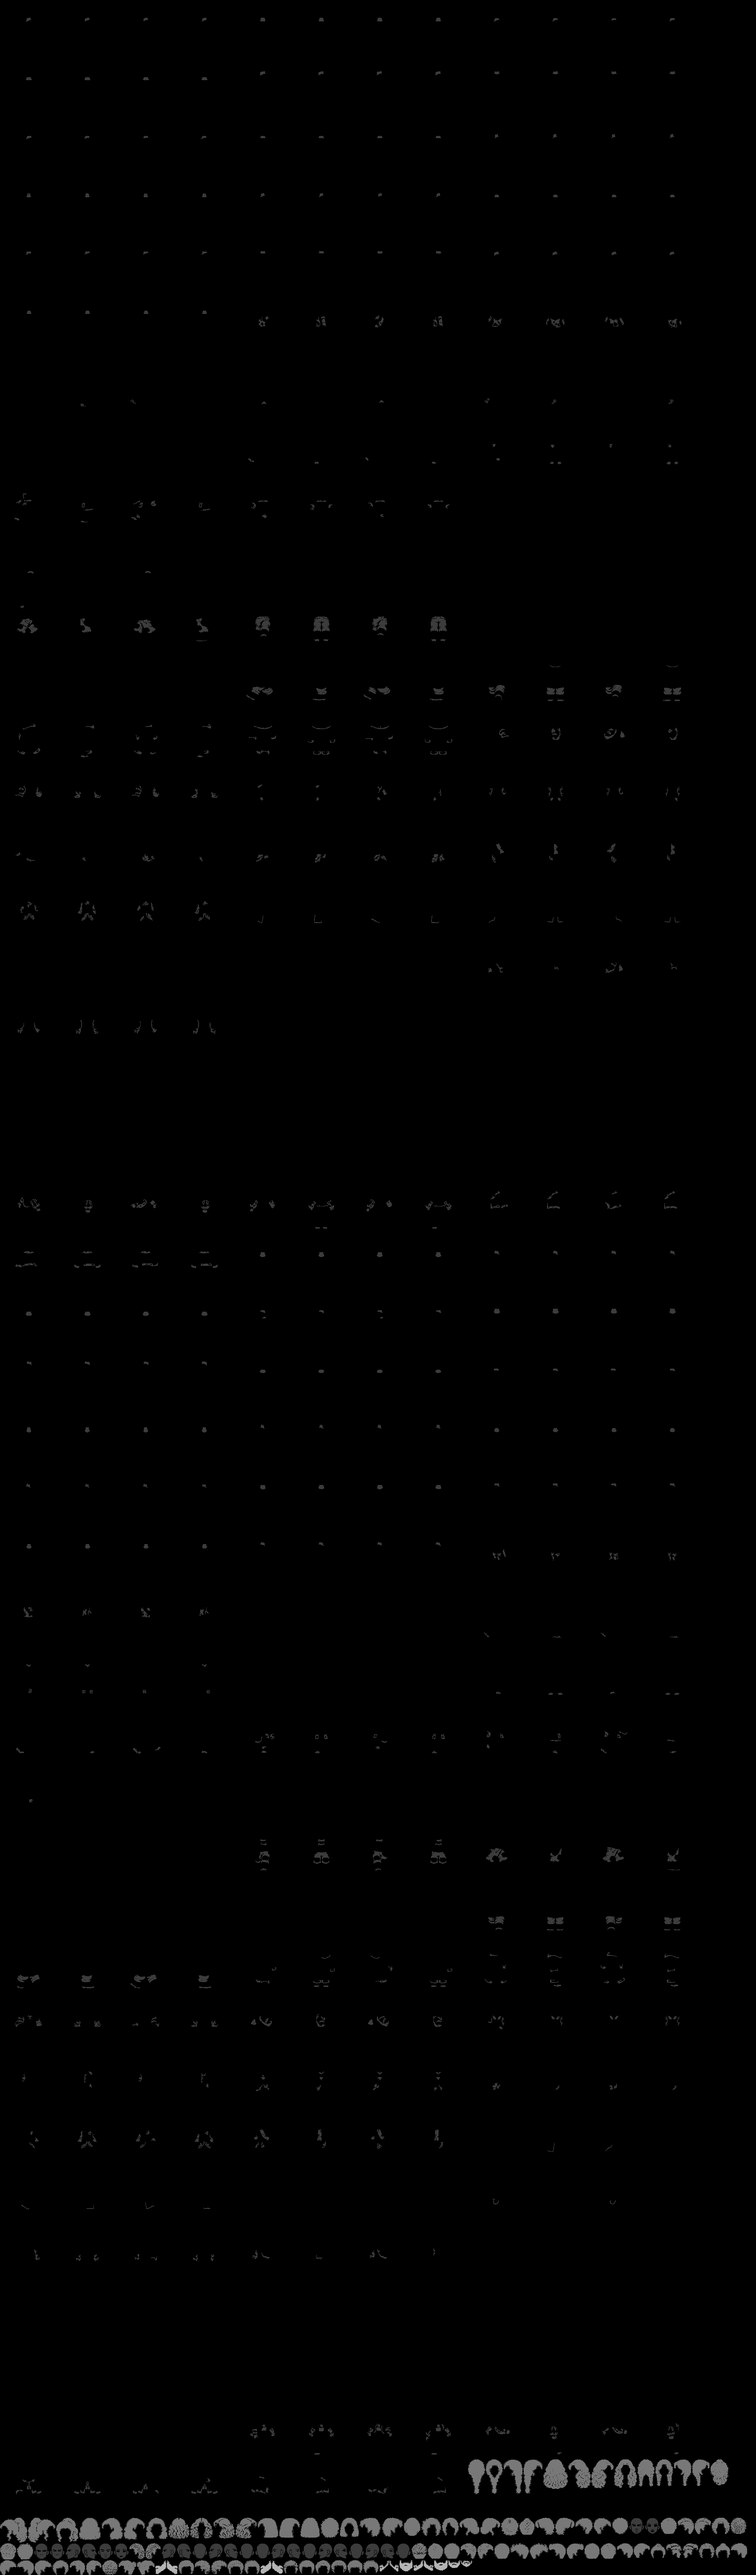
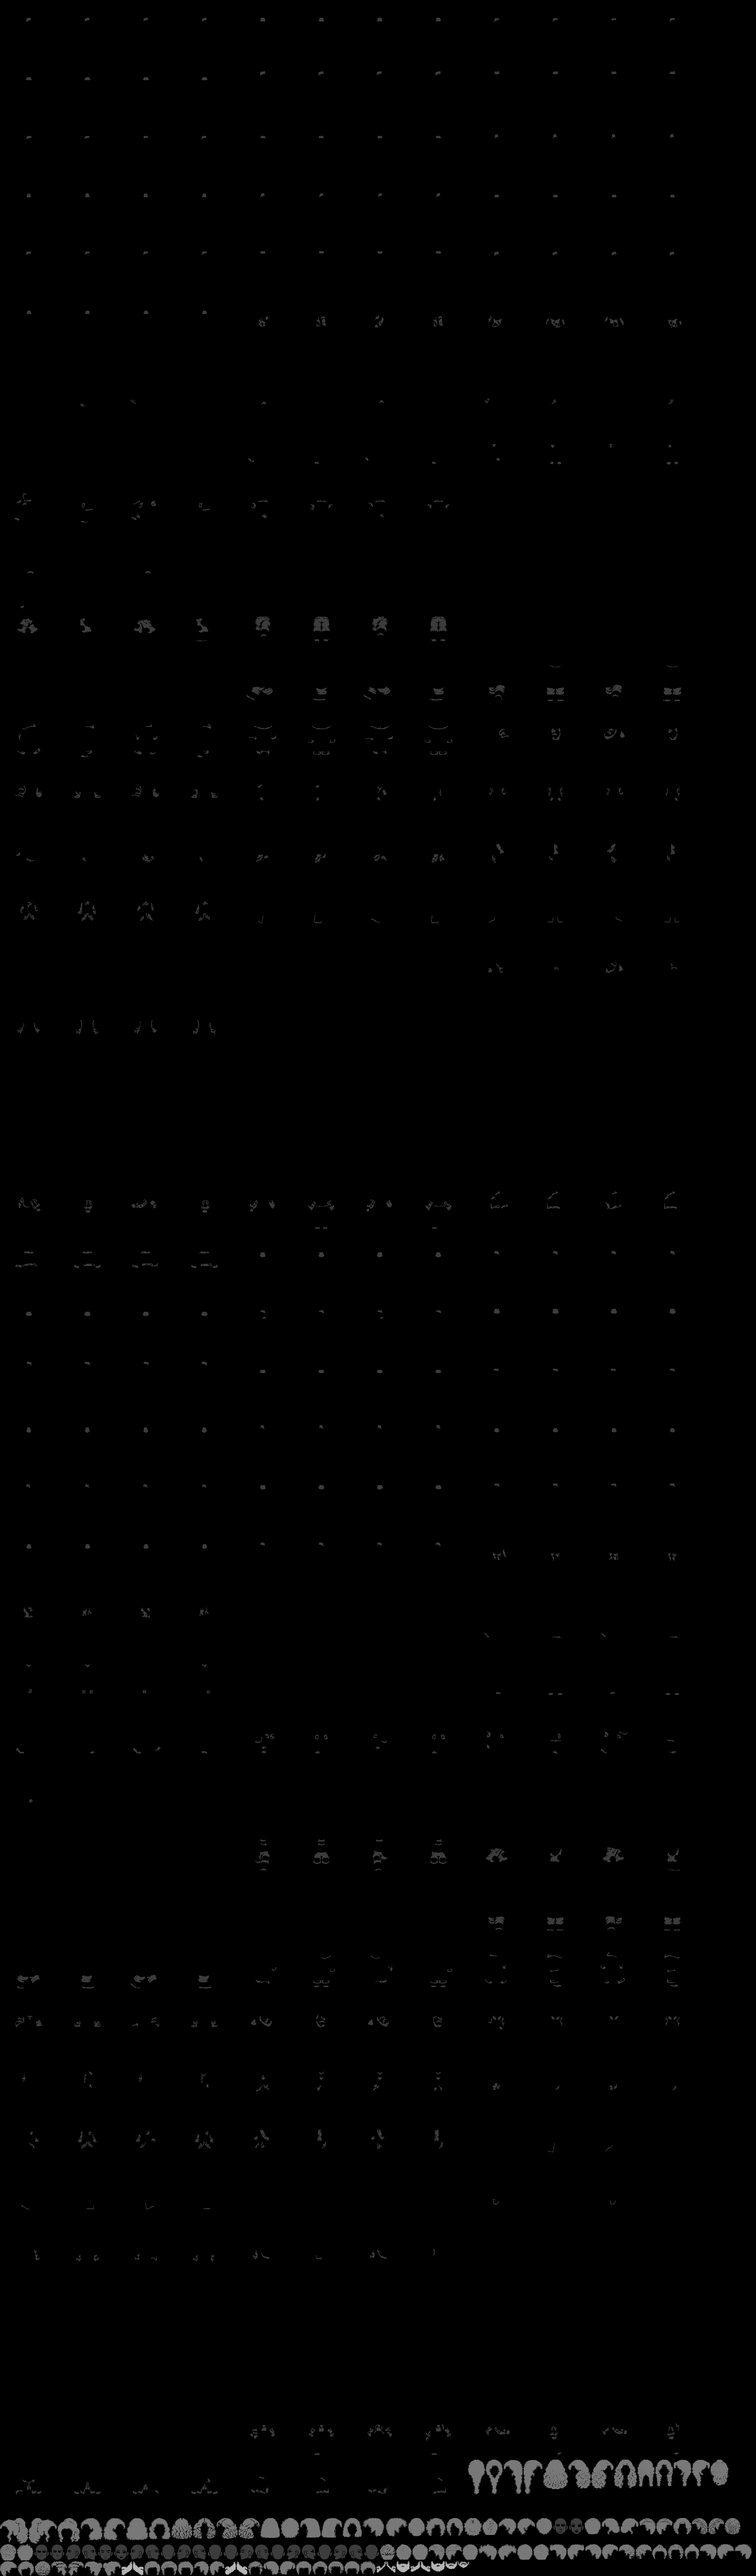
Creator: friendlier male faces (relaxed brows, slight smile); side-view hair kept off the face and matched to the front's crown height
Claude-Session: https://claude.ai/code/session_01M13Pm6b1zhezL4eS9qWP4U

Changed region(s): [[0.0, 0.965, 1.0, 1.0]]

diff --git a/tools/art/build_creator.py b/tools/art/build_creator.py
@@ -148,11 +148,29 @@ def fit_head(piece, v, fixed=None):
         iou = ov / np.maximum(un, 1); iy, ix = np.unravel_index(np.argmax(iou), iou.shape)
         if best is None or iou[iy, ix] > best[0]: best = (float(iou[iy, ix]), s * k, int(ix - (m.shape[1] - 1) - P), int(iy - (m.shape[0] - 1) - P))
     return best
+# friendlier male faces: the scowl comes out of the brows (inner ends lifted) and the mouth corners turn up.
+# Done as a gentle pull of the pixels on the full-size art, so the shading travels with it.
+CHEER = {0: (.07, .075), 1: (.07, .075), 2: (.06, .065), 3: (.03, .07)}   # face index: (brow lift, smile), as fractions of head height
+def cheer(p, col, brow, smile):
+    H, W = p.shape[:2]; yy, xx = np.mgrid[0:H, 0:W].astype(float); g = lambda c, sg: np.exp(-((yy - c * H) / (sg * H)) ** 2)
+    if col == 0:   # front
+        cx = W / 2; ax = np.abs(xx - cx)
+        lift = brow * H * np.clip(1 - ax / (.30 * W), 0, 1) * g(.42, .07)
+        lift += smile * H * np.clip(ax / (.14 * W), 0, 1) ** 2 * np.clip((.22 * W - ax) / (.06 * W), 0, 1) * g(.80, .05)
+    else:          # side, facing left: the brow's inner end and the mouth's corner are both towards the front
+        lift = brow * H * np.clip(1 - (xx - .12 * W) / (.30 * W), 0, 1) * (xx > .04 * W) * g(.40, .07)
+        lift += smile * H * np.clip((xx - .06 * W) / (.14 * W), 0, 1) ** 2 * np.clip((.27 * W - xx) / (.05 * W), 0, 1) * g(.76, .045)
+    f = p.astype(float); al = f[..., 3:] / 255; f[..., :3] *= al
+    out = np.stack([ndi.map_coordinates(f[..., k], [yy + lift, xx], order=1, mode='nearest') for k in range(4)], -1)
+    a = np.clip(out[..., 3], 0, 255); out[..., :3] = out[..., :3] / np.maximum(a[..., None] / 255, 1e-3)
+    out[..., 3] = p[..., 3]                                  # the outline of the head doesn't move
+    return np.clip(out, 0, 255).astype(np.uint8)
 heads = []
 for i in range(6):
     hv = {}
     for col in range(3):
         piece, (px, py) = biggest(Hs[i][col], fill_holes=4000)
+        if i in CHEER and col in (0, 1): piece = cheer(piece, col, *CHEER[i])
         iou, s, x, y = fit_head(piece, VIEW_OF_COL[col])
         hv[col] = dict(piece=piece, s=s, x=x, y=y, iou=iou, src=(px, py))
     mp = hv[1]['piece'][:, ::-1].copy(); iou, s, x, y = fit_head(mp, 2, fixed=hv[1]['s'])   # facing right: the side view mirrored, same size
@@ -277,11 +295,43 @@ def warp(img, s, x, y, d):
     out = np.dstack([np.clip(rgb, 0, 255), al]).astype(np.uint8)
     ys, xs = np.nonzero(out[..., 3]); out = out[ys.min():ys.max() + 1, xs.min():xs.max() + 1]
     return out, xs.min() - M, ys.min() - M
+# Side views get a last check against the face itself: hair mustn't jut out in front of the face (past the forehead,
+# over the brow or cheek), and it should cover the scalp from the hairline back to the nape. Each style's side piece
+# is resized (a little) and slid (a few px) to the spot that does both best, staying put if it already does.
+FM1 = face_mask(1, 1); _ys, _xs = np.nonzero(FM1); FT, FB = _ys.min(), _ys.max(); FH = FB - FT
+FLX = np.full(FM1.shape[0], 10 ** 6); FRX = np.full(FM1.shape[0], -1)
+for _y in range(FT, FB + 1):
+    _r = np.nonzero(FM1[_y])[0]
+    if len(_r): FLX[_y], FRX[_y] = _r[0], _r[-1]
+_yy, _xx = np.mgrid[0:FM1.shape[0], 0:FM1.shape[1]]
+_xf, _xb = _xs.min(), _xs.max()
+SCALP1 = FM1 & (_yy < FT + FH * (.22 + .40 * np.clip((_xx - _xf) / max(1, _xb - _xf), 0, 1)))
+FRONT1 = (_yy > FT + .15 * FH) & (_yy < FB) & (_xx < FLX[:, None] - 3)       # in front of the face's profile
+def refine_side(img, s, x, y, top_rel):
+    H0, W0 = FM1.shape; best = None
+    for k in np.arange(.70, 1.041, .03):
+        hm = resize(img, s * k)[..., 3] > 127; h, w = hm.shape
+        bx = x + (img.shape[1] * s) * (1 - k) / 2; by = y + (img.shape[0] * s) * (1 - k) * .25
+        for dx in range(-2, 16, 2):
+            for dy in range(-6, 31, 2):
+                X, Y = int(round(bx + dx)), int(round(by + dy)); cv = np.zeros((H0, W0), bool)
+                x0, y0, x1, y1 = max(0, X), max(0, Y), min(W0, X + w), min(H0, Y + h)
+                if x1 <= x0 or y1 <= y0: continue
+                cv[y0:y1, x0:x1] = hm[y0 - Y:y1 - Y, x0 - X:x1 - X]
+                rows = np.nonzero(cv.any(1))[0]; tr = rows[0] - FT if len(rows) else 0
+                # the same hairdo is as tall over the crown from the side as from the front (within a few px)
+                sc = 2 * (cv & FRONT1).sum() + (SCALP1 & ~cv).sum() + 300 * abs(k - 1) + 2 * (abs(dx) + abs(dy)) + 20 * max(0, abs(tr - top_rel) - 6)
+                if best is None or sc < best[0]: best = (sc, k, X, Y)
+    return best
 for n in HAIR_NAMES:
     V = fh.views(D + f'hair_{n}.png'); P = {}
     for d in (0, 1, 3):
         bcx, btop, fcx, ftop, k = MAP[d]; r = fits[n][d]
-        P[d] = warp(V[d], r['s'] * k, round(fcx + (r['x'] - bcx) * k), round(ftop + (r['y'] - btop) * k), d)
+        hs, hx, hy = r['s'] * k, round(fcx + (r['x'] - bcx) * k), round(ftop + (r['y'] - btop) * k)
+        if d == 1:
+            fim, fx, fy = P[0]; ftop = np.nonzero(face_mask(0, 0).any(1))[0][0]
+            sc, kk, hx, hy = refine_side(V[1], hs, hx, hy, fy + np.nonzero(fim[..., 3].any(1))[0][0] - ftop); hs *= kk; print('side', n, 'size', round(kk, 2), 'score', int(sc), flush=True)
+        P[d] = warp(V[d], hs, hx, hy, d)
     hl, hr = heads[0][1], heads[0]['r']; wl = hl['piece'].shape[1] * hl['s']; im, lx, ly = P[1]
     P[2] = (im[:, ::-1].copy(), round(hr['x'] + wl - (lx - hl['x']) - im.shape[1]), round(hr['y'] + (ly - hl['y'])))
     for d in (0, 1, 2, 3):
